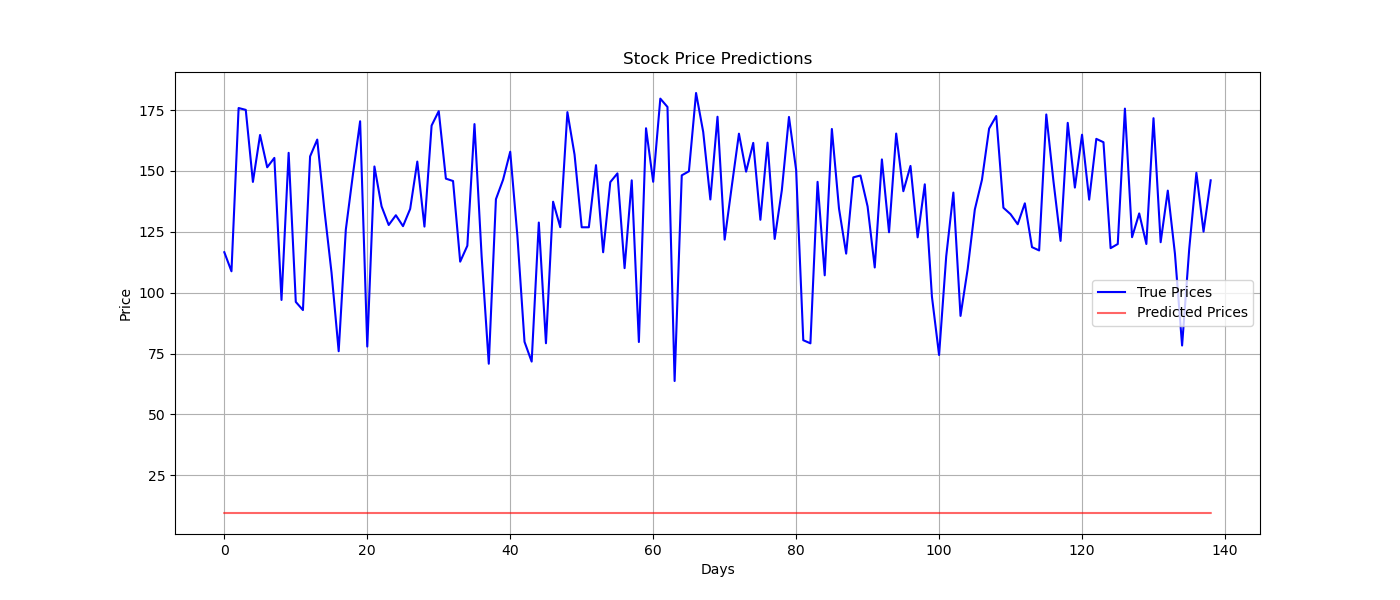
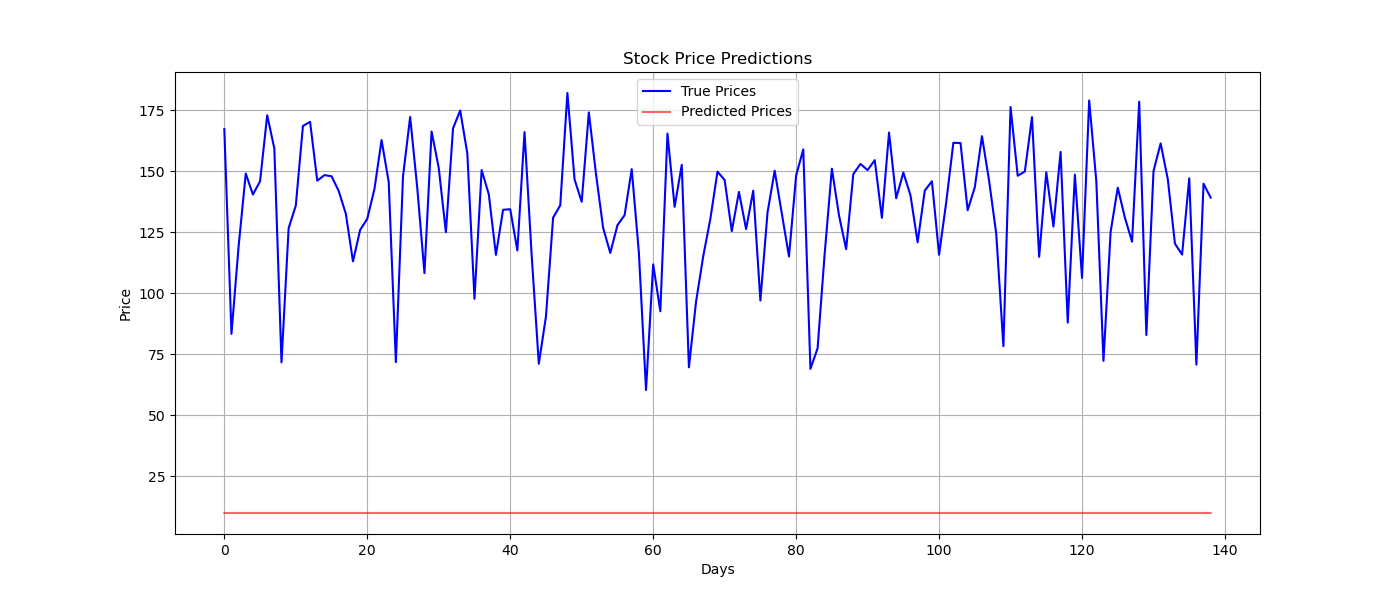
tsff-cnn

diff --git a/src/models/lstm.py b/src/models/lstm.py
@@ -1,6 +1,7 @@
 import torch
 import torch.nn as nn
-
+import matplotlib.pyplot as plt
+from utils.load_data import * 
 
 class SimpleLSTM(nn.Module):
     def __init__(self, input_dim, hidden_dim, num_layers, output_dim):
@@ -16,3 +17,64 @@ class SimpleLSTM(nn.Module):
         out, (hn, cn) = self.lstm(x.view(len(x), -1, 1), (h0.detach(), c0.detach()))
         out = self.fc(out[:, -1, :])
         return out
+    
+
+def round():
+    # Hyperparameters
+    input_dim = 1
+    hidden_dim = 32
+    num_layers = 2
+    output_dim = 1
+    num_epochs = 10
+    learning_rate = 0.001
+    ticker = "AAPL"
+
+    train_loader, test_loader = stock_dataloader(ticker, "2020-01-01", "2023-01-01")
+
+    model = SimpleLSTM(input_dim=input_dim, hidden_dim=hidden_dim, output_dim=output_dim, num_layers=num_layers)
+    loss_function = nn.MSELoss(reduction='mean')
+    optimizer = torch.optim.Adam(model.parameters(), lr=learning_rate)
+
+    # Train the model
+    for epoch in range(num_epochs):
+        for inputs, targets in train_loader:
+            optimizer.zero_grad()
+            
+            # Make predictions
+            outputs = model(inputs)
+            
+            # Compute loss
+            loss = loss_function(outputs, targets.view(-1, 1))
+            
+            # Backpropagate and optimize
+            loss.backward()
+            optimizer.step()
+
+        print(f"Epoch {epoch+1}/{num_epochs}, Loss: {loss.item()}")
+
+    # Evaluate the model
+    model.eval()
+    with torch.no_grad():
+        test_predictions = []
+        test_targets = []
+        for inputs, targets in test_loader:
+            outputs = model(inputs)
+            test_predictions.append(outputs.detach().numpy().tolist())
+            test_targets.append(targets.numpy().tolist())
+
+    print("Evaluation completed!")  
+
+    test_predictions_flattened = [item for sublist in test_predictions for item in sublist]
+    test_targets_flattened = [item for sublist in test_targets for item in sublist]
+
+    # Plot real vs predicted stock prices
+    plt.figure(figsize=(14,6))
+    plt.plot(test_targets_flattened, label='True Prices', color='blue')
+    plt.plot(test_predictions_flattened, label='Predicted Prices', color='red', alpha=0.6)
+    plt.title('Stock Price Predictions')
+    plt.xlabel('Days')
+    plt.ylabel('Price')
+    plt.legend()
+    plt.grid(True)
+    plt.savefig(f"./src/img/LSTM_{ticker}.png")
+

diff --git a/src/utils/load_data.py b/src/utils/load_data.py
@@ -11,6 +11,7 @@ from typing import Dict, List, Optional, Tuple, Union
 from sklearn.preprocessing import MinMaxScaler
 import torch
 from torch.utils.data import DataLoader, Dataset
+import calendar
 
 class StockDataset(Dataset):
     def __init__(self, ticker, start_date, end_date, window_size=60):
@@ -29,6 +30,7 @@ class StockDataset(Dataset):
         x = self.prices[idx: idx+self.window_size]
         y = self.prices[idx+self.window_size]
         return torch.tensor(x, dtype=torch.float32), torch.tensor(y, dtype=torch.float32)
+    
 
 def stock_dataloader(ticker, start_date, end_date, window_size=60, batch_size=32, test_split=0.2):
     dataset = StockDataset(ticker, start_date, end_date, window_size)
@@ -38,3 +40,5 @@ def stock_dataloader(ticker, start_date, end_date, window_size=60, batch_size=32
     train_loader = DataLoader(train_dataset, batch_size=batch_size, shuffle=True)
     test_loader = DataLoader(test_dataset, batch_size=batch_size, shuffle=False)
     return train_loader, test_loader
+
+

diff --git a/src/main.py b/src/main.py
@@ -1,0 +1,31 @@
+"""
+Currently a work in progress, but the goal is to maintain an argparser that can run the preffered models from a the cli
+
+    Implemented Strategies are : 
+
+        - LSTM on USD (lstm)
+        - Time-Series into Images Financial Forecasting (tsff-cnn)
+"""
+
+import argparse
+from models import lstm
+
+def argparser():
+    parser = argparse.ArgumentParser(description="Select a machine learning model.")
+    parser.add_argument("--strat", choices=["lstm", "tsff-cnn"], help="Select a machine learning model."),
+    return parser.parse_args()
+
+def stratLoader(args):
+
+    if args.strat == "lstm":
+        lstm.round()
+    if args.strat == "tsff-cnn":
+        lstm.round() 
+    else:
+        raise NameError("model not found")
+    
+
+
+if __name__ == "__main__":
+    args = argparser()
+    stratLoader(args)

diff --git a/src/models/tsff-cnn.py b/src/models/tsff-cnn.py
@@ -1,0 +1,20 @@
+"""
+Recreating , “Deep Learning and Time Series-to-Image Encoding for Financial Forecasting” paper
+This code utilizes the gaf and deep learning techiniques to achieve ~52 % of the market pricings
+"""
+
+import pandas as pd
+import os
+from pandas.tseries.holiday import USFederalHolidayCalendar as calendar
+from utils import load_data
+
+
+
+def preprocess():
+    ticker = "^GSPC"
+    trainloader, testloader = load_data.stock_dataloader(ticker, "1990-01-01", "2020-12-10", window_size=5)
+    return trainloader, testloader
+
+
+
+
